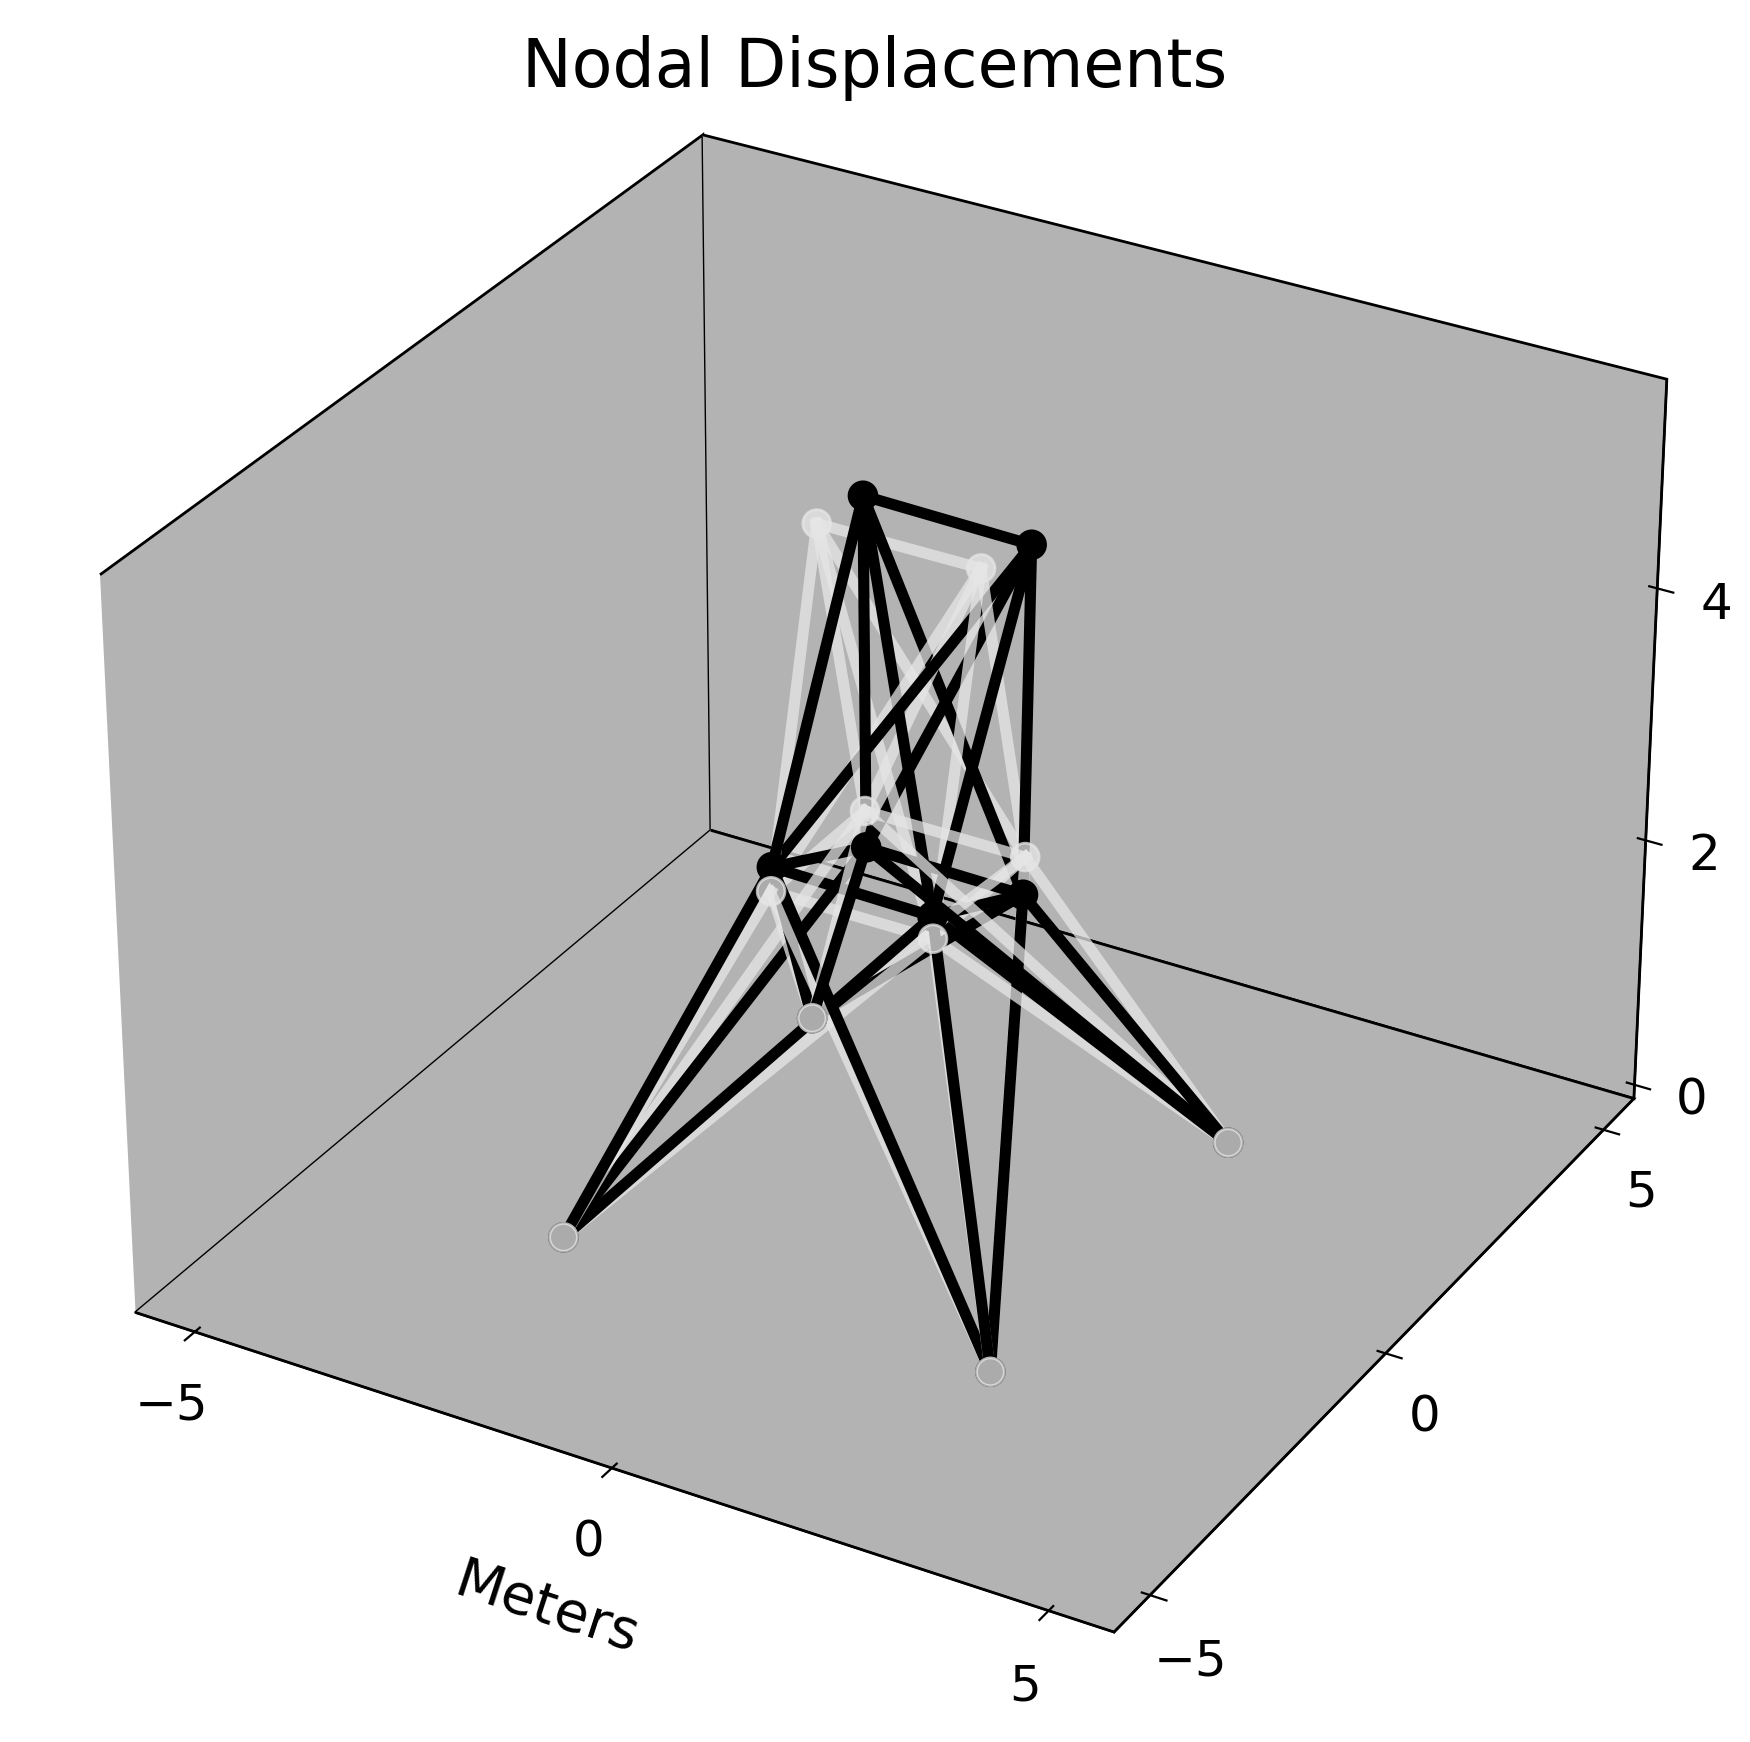
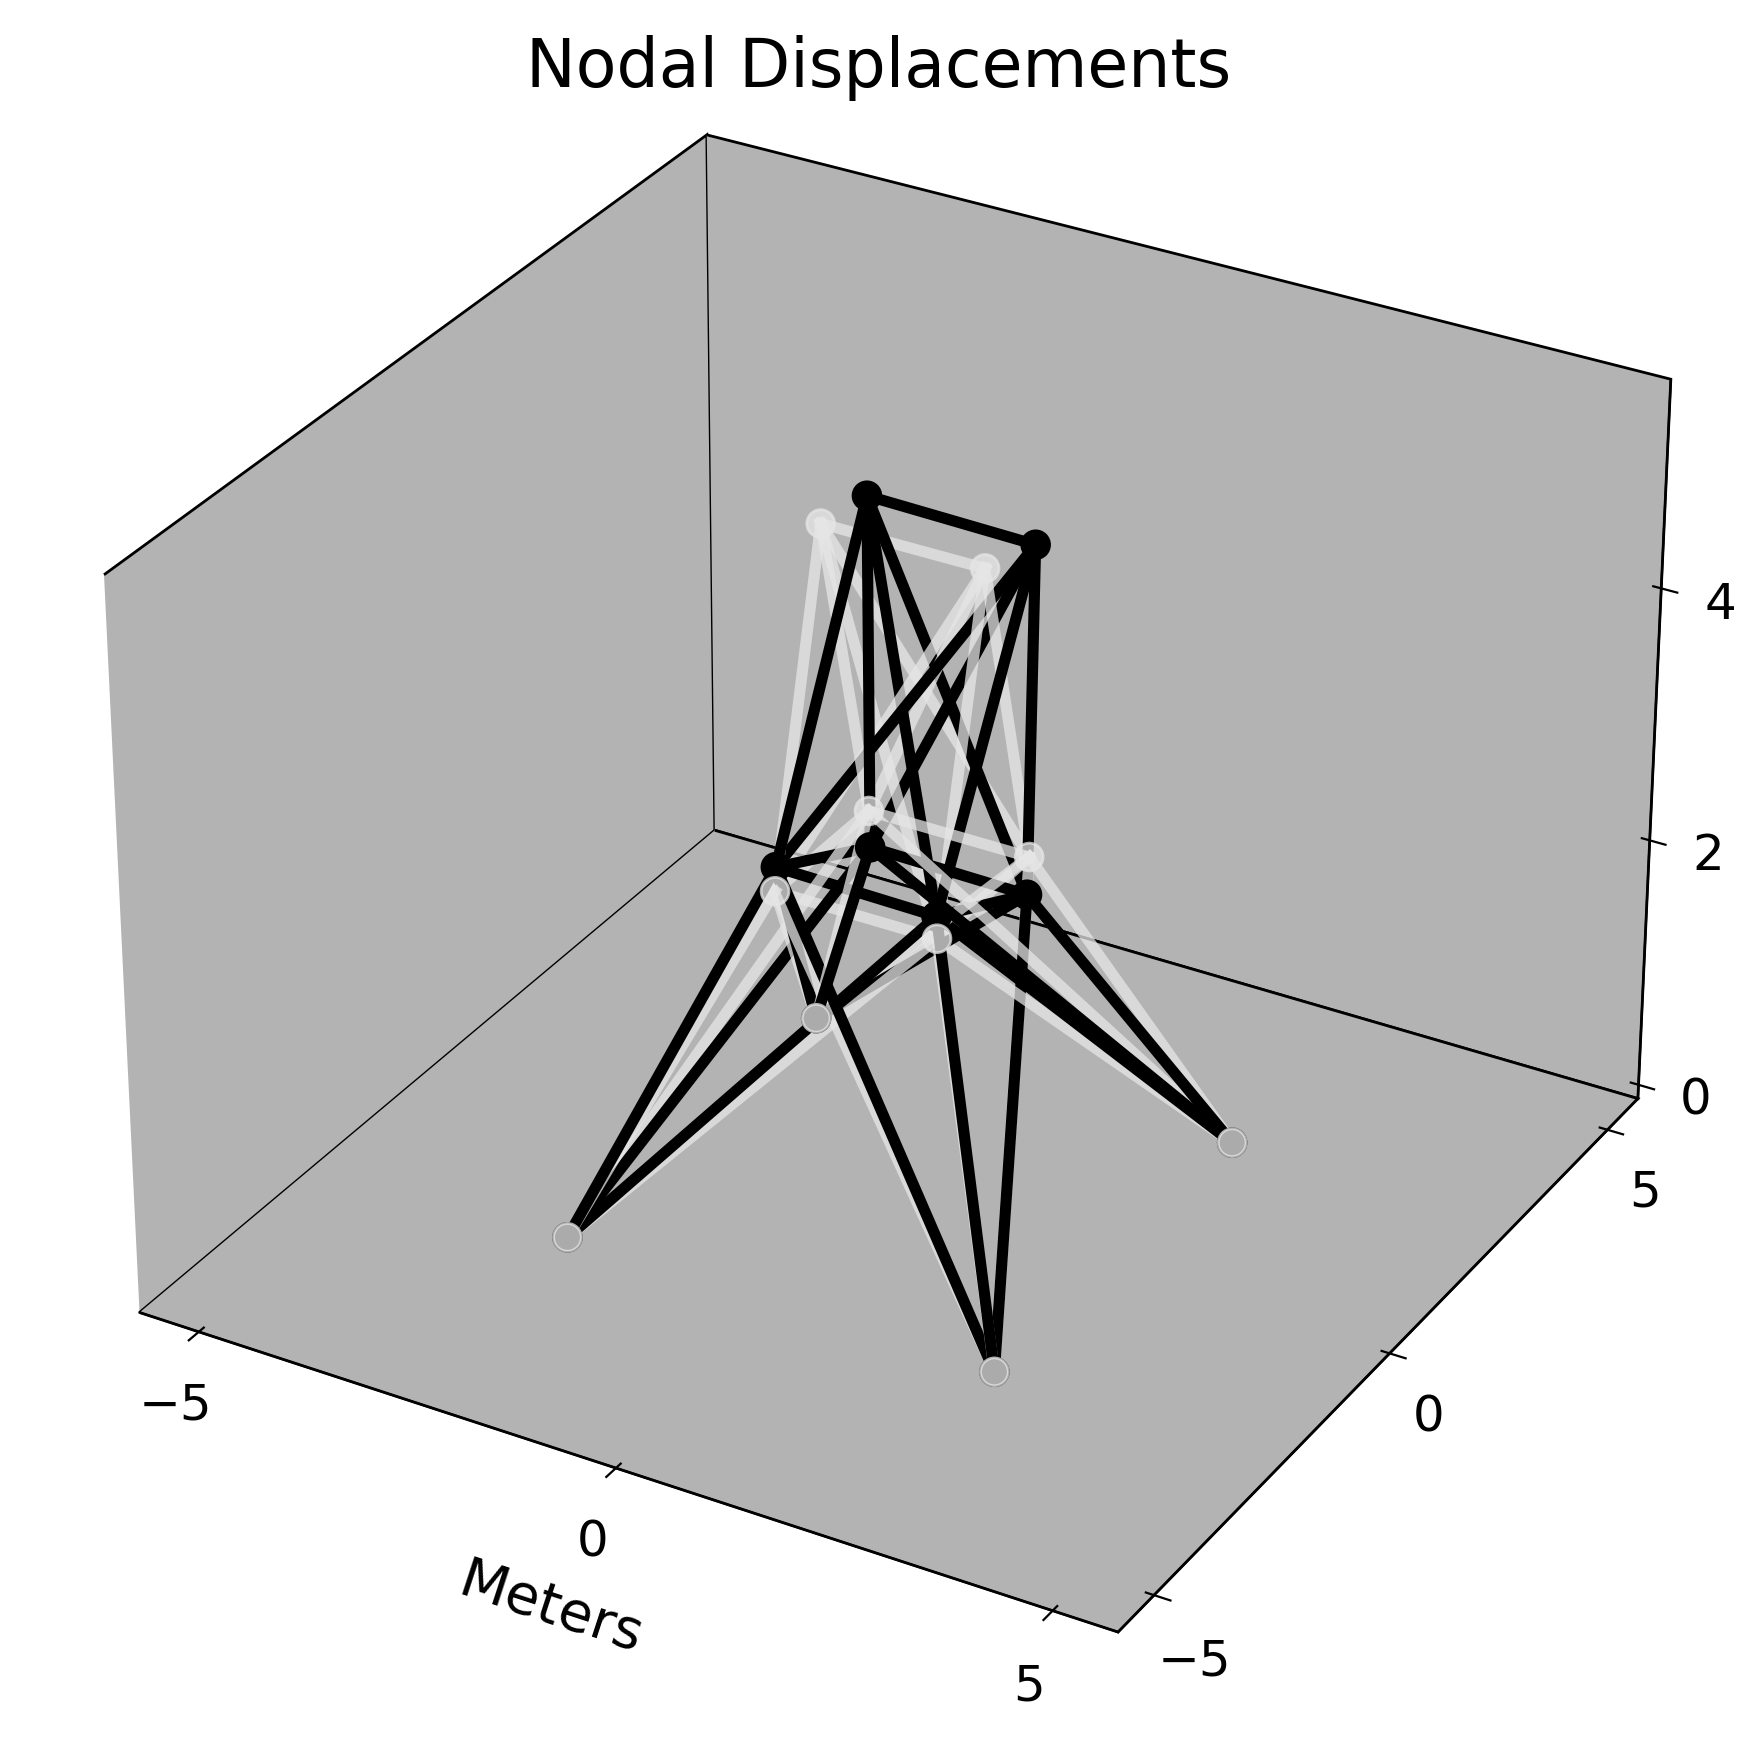
Edited the README, touched up the nodal displacement figure in Truss-Me, and began work on the Myc-Drop program.

diff --git a/Myc-Drop/Myc-Drop.cpp b/Myc-Drop/Myc-Drop.cpp
@@ -1,0 +1,194 @@
+/*/ 
+    main.cpp
+    Morgan Henderson, August 17, 2021
+    A program for a simple, fully connected neural network model
+/*/
+
+// Define a structure for the edges within a network
+struct edge {
+    double weight;
+    double delta;
+};
+
+// Declare the neuron class & create a typedef for layers of neurons
+class neuron;
+typedef vector<neuron> layer;
+
+// A neuron within a neural network
+class neuron {
+    public:
+        neuron(const unsigned &nout, const unsigned &index);
+        void set_out(const double &output) {_out = output;};
+        double get_out(void) const {return _out;}
+        void feed(const layer &llayer);
+        void outGrad(const double &output);
+        void hidGrad(const layer &nlayer);
+        void update(layer &llayer);
+    private:
+        static double eta;
+        static double alpha;
+        double _out;
+        vector<edge> _edges;
+        unsigned _index;
+        double _grad;
+        static double randweight() {return rand()/double(RAND_MAX);}
+        static double activate(const double &input);
+        static double dactivate(const double &input);
+        double sumDOWs(const layer &nlayer) const;
+};
+
+// Initializes an instance of the neuron class
+neuron::neuron(const unsigned &nout, const unsigned &index) {
+    for (unsigned e=0; e<nout; e++) {
+        _edges.push_back(edge());
+        _edges.back().weight = randweight();
+        _edges.back().delta = 0;
+    }
+    _index = index;
+}
+
+// Feeds inputs to a neuron from the preceding layer
+void neuron::feed(const layer &llayer) {
+    double sum = 0.;
+    for (unsigned n=0; n<llayer.size(); n++) {
+        sum += llayer[n].get_out()*llayer[n]._edges[_index].weight;
+    }
+    _out = activate(sum);
+}
+
+// Computes gradients for the output layer
+void neuron::outGrad(const double &output) {
+    double delta = output-_out;
+    _grad = delta*dactivate(_out);
+}
+
+// Computes gradients for hidden layers
+void neuron::hidGrad(const layer &nlayer) {
+    double DOW = sumDOWs(nlayer);
+    _grad = DOW*dactivate(_out);
+}
+
+// The activation function
+double neuron::activate(const double &input) {
+    return tanh(input);
+}
+
+// The derivative of the activation function
+double neuron::dactivate(const double &input) {
+    return 1-pow(tanh(input),2);
+}
+
+// Sums the derivative of weights in the following layer
+double neuron::sumDOWs(const layer &nlayer) const {
+    double sum = 0.;
+    for (unsigned n=0; n<nlayer.size()-1; n++) {
+        sum += _edges[n].weight*nlayer[n]._grad;
+    }
+    return sum;
+}
+
+// Updates the previous layer weights associated with a neuron
+void neuron::update(layer &llayer) {
+    for (unsigned n=0; n<llayer.size(); n++) {
+        neuron &neighbor = llayer[n];
+        double deltaOld = neighbor._edges[_index].delta;
+        double delta = eta*neighbor.get_out()*_grad + alpha*deltaOld;
+        neighbor._edges[_index].delta = delta;
+        neighbor._edges[_index].weight += delta;
+    }
+}
+
+// A neural network
+class network {
+    public:
+        network(const vector<unsigned> &topology);
+        void feed(const vector<double> &inputs);
+        void learn(const vector<double> &outputs);
+        void report(vector<double> &results) const;
+        double get_RAE(void) {return _RAE;}
+
+    private:
+        vector<layer> _layers;
+        double _RMSE;
+        double _RAE;
+        static double _RASmooth;
+};
+
+// Initializes an instance of the network class
+network::network(const vector<unsigned> &topology) {
+    const unsigned nlayers = topology.size();
+    for (unsigned l=0; l<nlayers; l++) {
+        _layers.push_back(layer());
+        unsigned nout = l==nlayers-1 ? 0 : topology[l+1];
+        for (unsigned n=0; n<=topology[l]; n++) {
+            _layers.back().push_back(neuron(nout,n));
+        }
+        _layers.back().back().set_out(1.0);
+    }
+    _RMSE = 0;
+    _RAE = 0;
+}
+
+// Feeds inputs forward through the network
+void network::feed(const vector<double> &inputs) {
+    assert(inputs.size()==_layers[0].size()-1);
+    for (unsigned i=0; i<inputs.size(); i++) {
+        _layers[0][i].set_out(inputs[i]);
+    }
+    for (unsigned l=1; l<_layers.size(); l++) {
+        layer &llayer = _layers[l-1];
+        for (unsigned n=0; n<_layers[l].size(); n++) {
+            _layers[l][n].feed(llayer);
+        }
+    }
+}
+
+// Calculates & back-propagates network gradients
+void network::learn(const vector<double> &outputs) {
+    assert(outputs.size()==_layers.back().size()-1);
+    layer &outlayer = _layers.back();
+
+    // Compute current RMS error & modify recent average error
+    _RMSE = 0;
+    for (unsigned n=0; n<outlayer.size()-1; n++) {
+        double delta = outputs[n]-outlayer[n].get_out();
+        _RMSE += pow(delta,2);
+    }
+    _RMSE /= outlayer.size()-1;
+    _RMSE = sqrt(_RMSE);
+    _RAE = (_RAE*_RASmooth+_RMSE)/(_RASmooth+1);
+
+    // Calculate gradients on network layers
+    for (unsigned n=0; n<outlayer.size(); n++) {
+        outlayer[n].outGrad(outputs[n]);
+    }
+    for (unsigned l=_layers.size()-2; l>0; l--) {
+        layer &hlayer = _layers[l];
+        layer &nlayer = _layers[l+1];
+        for (unsigned n=0; n<hlayer.size(); n++) {
+            hlayer[n].hidGrad(nlayer);
+        }
+    }
+
+    // Update edge weights based on gradients
+    for (unsigned l=_layers.size()-1; l>0; l--) {
+        layer &tlayer = _layers[l];
+        layer &llayer = _layers[l-1];
+        for (unsigned n=0; n<tlayer.size()-1; n++) {
+            tlayer[n].update(llayer);
+        }
+    }
+}
+
+// Fills an input vector with the results of training
+void network::report(vector<double> &results) const {
+    results.clear();
+    for (unsigned n=0; n<_layers.back().size()-1; n++) {
+        results.push_back(_layers.back()[n].get_out());
+    }
+}
+
+// Set static class members
+double neuron::eta = 0.15;
+double neuron::alpha = 0.5;
+double network::_RASmooth = 3;

diff --git a/Truss-Me/Truss-Me.py b/Truss-Me/Truss-Me.py
@@ -182,12 +182,12 @@ def plotDisp(truss,mag=10,maxDim=zeros(3),cPane=(.7,.7,.7,1.0),cEdges=(0,0,0,1.0
 		fig.suptitle("Nodal Displacements",fontsize=24)
 		ax3d.grid(False)
 		ax3d.scatter(truss.rNodes[:,0],truss.rNodes[:,1],truss.rNodes[:,2],color=fgray,alpha=0.75,s=100)
-		ax3d.scatter(drNodes[:,0],drNodes[:,1],drNodes[:,2],color='k',alpha=1,s=100)
 		for e in range(truss.nEl):
 			ePos = truss.els[e].rs.reshape(len(truss.eNodes[e]),3)
-			dePos = ePos+mDisp[truss.eNodes[e]]	
+			dePos = ePos+mDisp[truss.eNodes[e]]
 			ax3d.plot(ePos[:,0],ePos[:,1],ePos[:,2],'-',color=fgray,lw=4,alpha=0.75)
 			ax3d.plot(dePos[:,0],dePos[:,1],dePos[:,2],'-',color='k',lw=4)
+		ax3d.scatter(drNodes[:,0],drNodes[:,1],drNodes[:,2],color='k',alpha=1,s=100)
 		ax3d.set_xlim(-maxDim[0],maxDim[0])
 		ax3d.set_ylim(-maxDim[1],maxDim[1])
 		ax3d.set_zlim(0,maxDim[2])
@@ -224,7 +224,7 @@ def plotStress(truss,sigLim=1e3,maxDim=zeros(3),cPane=(.1,.1,.1,1.0),cEdges=(.8,
 	fig.subplots_adjust(left=0.0,right=1.0,top=1.0,bottom=0.0)
 	fig.show()
 
-# Define node positions (meters)
+# Define node positions (m)
 rNodes = array([[-95.25,0.,508],[95.25,0.,508],[-95.25,95.25,254],[95.25,95.25,254],[95.25,-95.25,254],\
     [-95.25,-95.25,254],[-254.,254,0],[254.,254,0],[254.,-254,0],[-254.,-254,0]])/1e2
 nNodes = len(rNodes)

diff --git a/README.md b/README.md
@@ -1,7 +1,51 @@
 # code-samples
+
+## Overview
+
 The contents of this repo are a sampling of (very basic) programs and scripts demonstrating useful skills I've picked up. They include algorithms and methods I've learned in both educational and professional (including research) settings, but applied to conceptually simple problems to highlight fundamental concepts.
 
-## References
+## Programs
+
+### Buffmo (Python)
+
+The Buffmo program (Buffmo.py) is a basic but comprehensive tutorial for programmatically generating noisy dynamical and measurement data and implementing a standard Kalman filter to perform estimation on the artifically unknown states.
+
+I wrote the Buffmo program as a tutorial for students when I served as TA for a course called Statistical Estimation for Dynamical Systems (ASEN 5044) at CU Boulder during Fall 2021. It's written primarily in a functional format to achieve maximum comparability with MATLAB scripts, which were preferred by some of the students in the class.
+
+The program is accompanied by several figures and an extensive write-up (Buffmo.pdf) that covers everything from equations of motion and the state-space formulation to code implementation. The figures include sample trajectory & error plots, and NEES & NIS statistic plots averaged over many truth model runs.
+
+#### Use Guide
+
+You can run Buffmo.py as you would any other Python program to generate plots (I prefer to do so using iPython!). If you plan to run it from a command line and want to generate plots, I'd recommend replacing the lines "plt.show()" with "plt.save("file_name",dpi=desired_dpi)" to store them automatically.
+
+Other than the few noise & dynamical parameters listed benath the comment that reads 'Define parameters', there isn't too much to play around with in this program. Additional tunable variables include the number of truth model runs performed "nTMT" and the certainty level "alpha".
+
+### Truss-Me (Python)
+
+The Truss-Me program (Truss-Me.py) is a simple finite elements program for designing and testing truss structres composed of 2-node bar elements under applied forcing conditions and degree-of-freedom constraints.
+
+I wrote the Truss-Me program (in part) to demonstrate my undertanding of the basics of finite-element modeling and analysis. It's based on a homework assignment from a course called Introduction to Finite Elements (ASEN 5007) which I took at CU Boulder during Fall 2018, and was inspired by the Mathematica programs used in that course (described at length in Felippa, 2004).
+
+Other reasons for writing the program included a feeling that the whole process lends itself well to object-oriented programming, I was curious to see how the visualizations would look using interactive graphical software, and I thought that it might be a lot of fun. Incidentally: it was a lot of fun, the class-based layout of the program feels very natural to me, and the interactive 3D plotting is quite nice.
+
+The program is accompanied by three figures exhibiting the initial truss structure with labeled nodes, a depiction of the displaced structure after forces have been applied (with displacements magnified 100x), and a colormap image of the structure demonstrating the internal strains of each bar element.
+
+#### Use Guide
+
+You can run Truss-Me.py as you would any other Python program to generate plots (I prefer to do so using iPython!). If you plan to run it from a command line and want to generate plots, I'd recommend replacing the lines "plt.show()" with "plt.save("file_name",dpi=desired_dpi)" to store them automatically. Interactive plotting windows allow you to view the visualizations from many different angles and are highly recommended!
+
+This program is designed to handle a broad variety of changes. The arrays in sections below the comment that reads 'Define node positions (m)' (line 227) can be altered to produce different truss structures, change constituent material properties & fabrication properties, and control applied forcing & degree-of-freedom conditions.
+
+#### References
+
+Felippa (2004)
+Felippa, Carlos A., "Introduction to finite element methods," University of Colorado 885 (2004)
 
 Fox and Schmit (1964)
 Fox, R. L. and Schmit, L. A., "Advances in the integrated approach to structural synthesis," AIAA/ASME Material Conference, 1964., pp. 294-315
+
+### Myc-Drop (C++)
+
+#### Use Guide
+
+#### References
